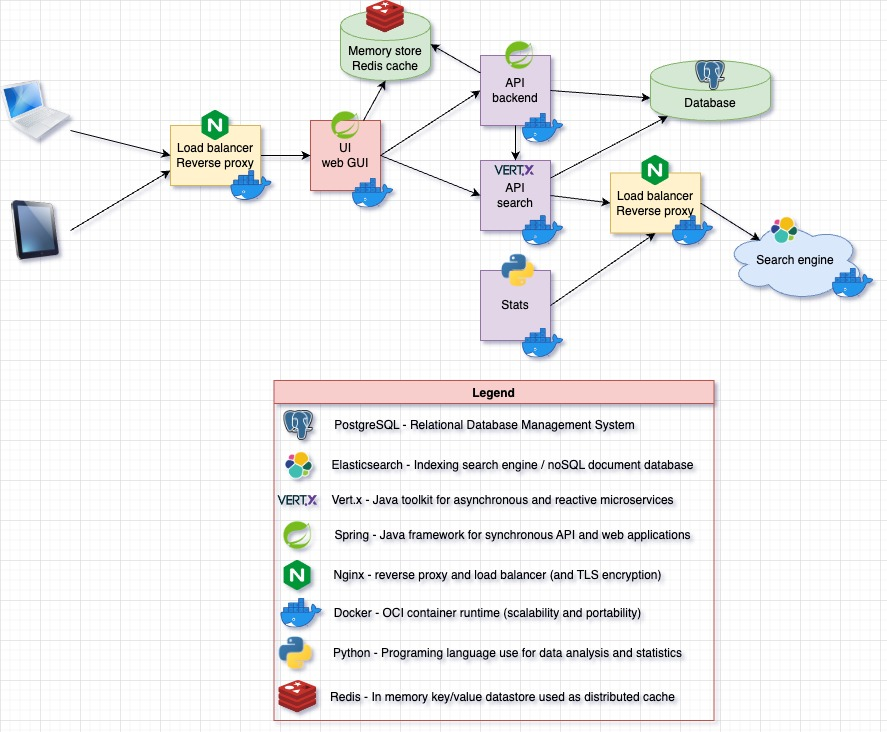
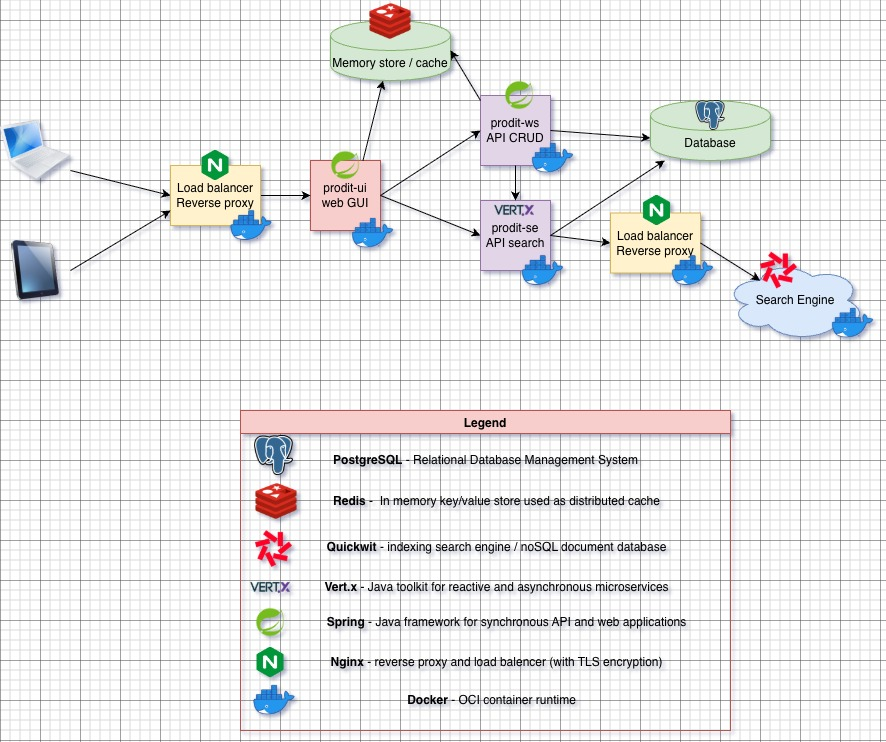
Update informations

diff --git a/architecture.md b/architecture.md
@@ -16,8 +16,7 @@
 * Vert.x
 * Thymleaf
 * PostgreSQL
-* Elasticsearch
+* Quickwit
 * Redis
-* Python
 
 All are kept up to date.
